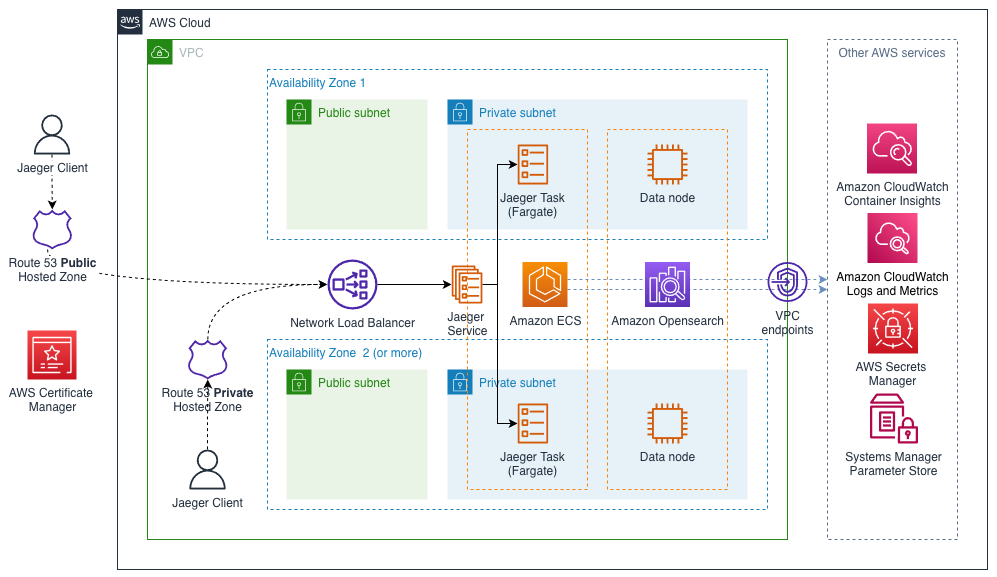
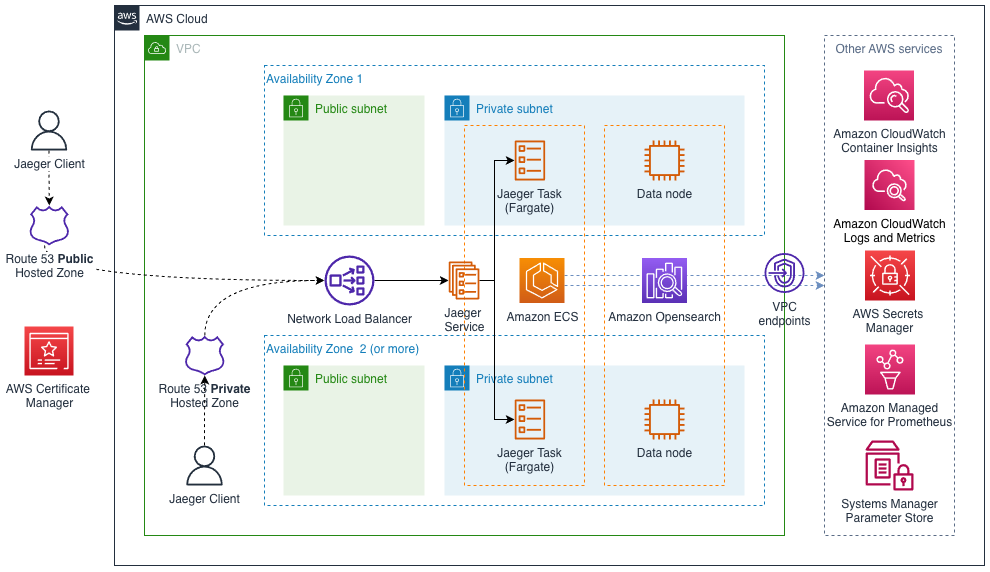
Updating documentation

diff --git a/index.html b/index.html
@@ -964,10 +964,6 @@ is a distributed tracing platform created by <a href="https://uber.github.io/">U
 </ul>
 </div>
 <div class="paragraph">
-<p>This Quick Start is for users who want a repeatable, customizable reference deployment
-for Jaeger using <a href="https://aws.amazon.com/cloudformation/">AWS CloudFormation</a>.</p>
-</div>
-<div class="paragraph">
 <p>This Quick Start helps you to deploy a <a href="https://docs.aws.amazon.com/whitepapers/latest/real-time-communication-on-aws/high-availability-and-scalability-on-aws.html">highly available</a> Jaeger - open source, end-to-end
 distributed tracing backend on the Amazon Web Services (AWS) Cloud.</p>
 </div>
@@ -986,7 +982,9 @@ in your AWS account in about 10-30 minutes. The Quick Start automates the follow
 </ul>
 </div>
 <div class="paragraph">
-<p>You can also use the AWS CloudFormation templates as a starting point for your own implementation.</p>
+<p>This Quick Start is for users who want a repeatable, customizable reference deployment
+for Jaeger using <a href="https://aws.amazon.com/cloudformation/">AWS CloudFormation</a>.
+You can also use the AWS CloudFormation templates as a starting point for your own implementation.</p>
 </div></div></td>
 </tr>
 </tbody>
@@ -1029,9 +1027,6 @@ Amazon may share user-deployment information with the AWS Partner that collabora
 <p><a href="https://aws.amazon.com/ecs/">Amazon ECS</a> - highly available Fargate cluster</p>
 </li>
 <li>
-<p><a href="https://aws.amazon.com/opensearch-service/">Amazon Opensearch</a> - highly available search cluster</p>
-</li>
-<li>
 <p><a href="https://aws.amazon.com/cloudwatch/">Amazon CloudWatch</a> - integration for logs and metrics</p>
 </li>
 <li>
@@ -1041,7 +1036,21 @@ Amazon may share user-deployment information with the AWS Partner that collabora
 <p><a href="https://aws.amazon.com/certificate-manager/">AWS Certificate Manager</a> - integration for TLS certificates</p>
 </li>
 <li>
-<p><a href="https://aws.amazon.com/prometheus/">Amazon Managed Service for Prometheus</a> - centralized metrics collection</p>
+<p><a href="https://aws.amazon.com/prometheus/">Amazon Managed Service for Prometheus</a> - managed Prometheus for centralized metrics collection</p>
+</li>
+</ul>
+</div>
+<div class="paragraph">
+<p>In addition, depending on selected Jaeger <a href="https://www.jaegertracing.io/docs/1.32/deployment/#storage-backends">storage backend</a>,
+the Quick Start uses the following AWS services:</p>
+</div>
+<div class="ulist">
+<ul>
+<li>
+<p><a href="https://aws.amazon.com/opensearch-service/">Amazon Opensearch</a> - highly available search cluster</p>
+</li>
+<li>
+<p><a href="https://aws.amazon.com/keyspaces/">Amazon Keyspaces (for Apache Cassandra)</a> - a scalable, highly available, and managed Apache Cassandra–compatible database service</p>
 </li>
 </ul>
 </div></div></td>
@@ -1109,18 +1118,25 @@ After you deploy the Quick Start, create <a href="https://docs.aws.amazon.com/aw
 </colgroup>
 <tbody>
 <tr>
-<td class="tableblock halign-left valign-top"><div class="content"><div class="paragraph">
+<td class="tableblock halign-left valign-top"><div class="content"><div id="toc" class="toc">
+<div id="toctitle"></div>
+<ul class="sectlevel2">
+<li><a href="#_storage_backend">Storage Backend</a></li>
+<li><a href="#_dns_configuration">DNS configuration</a></li>
+<li><a href="#_container_insights_integration">Container Insights integration</a></li>
+<li><a href="#_exporting_jaeger_metrics">Exporting Jaeger metrics</a></li>
+</ul>
+</div>
+<div class="paragraph">
 <p>Deploying this Quick Start for a new virtual private cloud (VPC) with
 <strong>default parameters</strong> builds the following <em>Jaeger</em> environment in the
 AWS Cloud.</p>
 </div>
-<div class="imageblock">
+<div id="img-aws-architecture" class="imageblock">
 <div class="content">
-<img src="images/architecture_diagram.png" alt="image" width="648" height="439">
+<img src="images/architecture_diagram.png" alt="Quick Start architecture for _Jaeger_ Jaeger on AWS">
 </div>
-</div>
-<div class="paragraph">
-<p>Figure 1: Quick Start architecture for <em>Jaeger</em> on AWS</p>
+<div class="title">Figure 1. Quick Start architecture for <em>Jaeger</em> Jaeger on AWS</div>
 </div>
 <div class="paragraph">
 <p>As shown in Figure 1, the Quick Start sets up the following:</p>
@@ -1159,6 +1175,30 @@ Shell (SSH) access to EC2 instances in public and private subnets.*</p>
 <p>*The template that deploys the Quick Start into an existing VPC skips
 the components marked by asterisks and prompts you for your existing VPC
 configuration.</p>
+</div>
+<div class="sect2">
+<h3 id="_storage_backend">Storage Backend</h3>
+<div class="paragraph">
+<p>TBD</p>
+</div>
+</div>
+<div class="sect2">
+<h3 id="_dns_configuration">DNS configuration</h3>
+<div class="paragraph">
+<p>TBD</p>
+</div>
+</div>
+<div class="sect2">
+<h3 id="_container_insights_integration">Container Insights integration</h3>
+<div class="paragraph">
+<p>TBD</p>
+</div>
+</div>
+<div class="sect2">
+<h3 id="_exporting_jaeger_metrics">Exporting Jaeger metrics</h3>
+<div class="paragraph">
+<p>TBD</p>
+</div>
 </div></div></td>
 </tr>
 </tbody>
@@ -1505,7 +1545,7 @@ Region</code>, and <code>Quick Start S3 key prefix</code>. Changing these parame
 <p>Monitor the status of the stack. When the status is <strong>CREATE_COMPLETE</strong>, the Jaeger deployment is ready.</p>
 </li>
 <li>
-<p>Use the values displayed in the <strong>Outputs</strong> tab for the stack, as shown in <a href="#cfn_outputs">Figure 1</a>, to view the created resources.</p>
+<p>Use the values displayed in the <strong>Outputs</strong> tab for the stack, as shown in <a href="#cfn_outputs">Figure 2</a>, to view the created resources.</p>
 </li>
 </ol>
 </div>
@@ -1513,7 +1553,7 @@ Region</code>, and <code>Quick Start S3 key prefix</code>. Changing these parame
 <div class="content">
 <a class="image" href="images/cfn_outputs.png"><img src="images/cfn_outputs.png" alt="cfn_outputs" width="648" height="439"></a>
 </div>
-<div class="title">Figure 1. Jaeger outputs after successful deployment</div>
+<div class="title">Figure 2. Jaeger outputs after successful deployment</div>
 </div>
 </div>
 <div class="paragraph">
